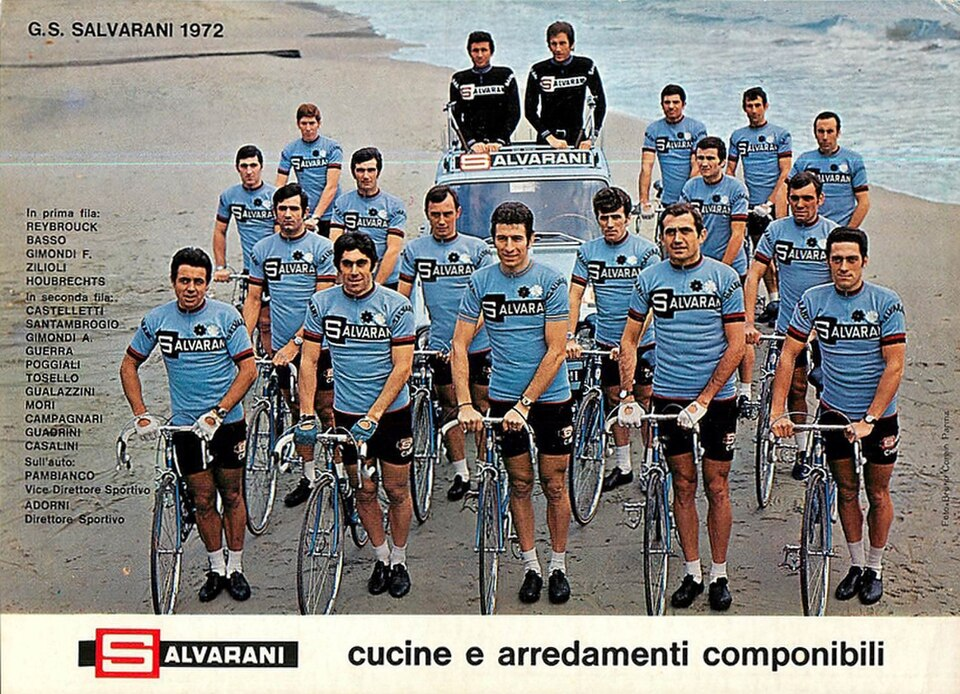
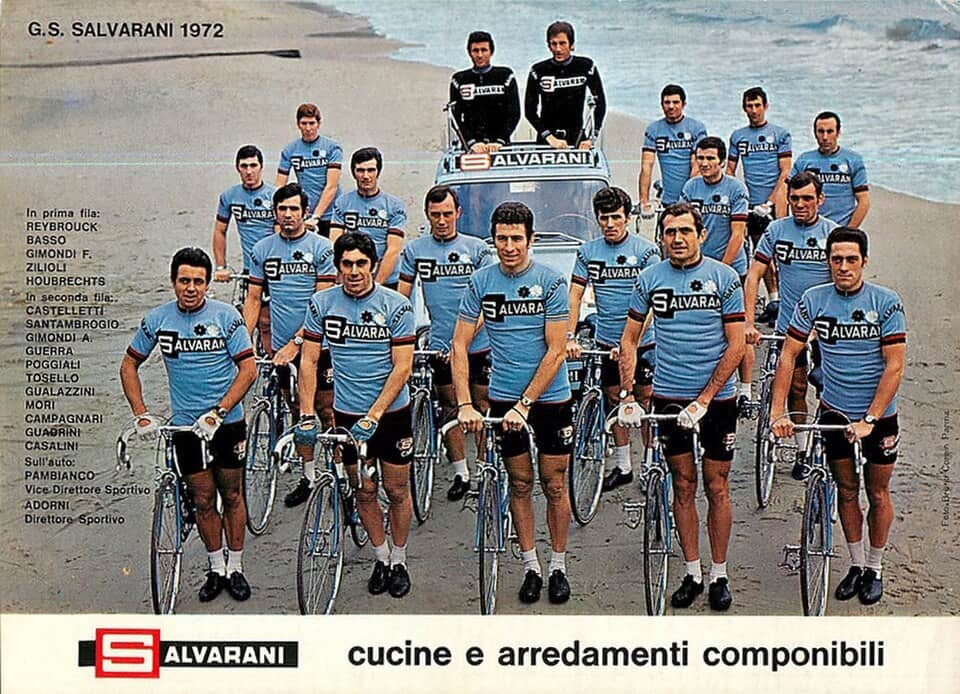
Optimize images and fix W04 audit issues

diff --git a/wwr/index.html b/wwr/index.html
@@ -1,9 +1,11 @@
 <!DOCTYPE html>
 <html lang="en-US">
+
 <head>
     <meta charset="UTF-8">
     <meta name="viewport" content="width=device-width, initial-scale=1.0">
-    <meta name="description" content="Experience exciting white water rafting adventures with expert guides, breathtaking scenery, and unforgettable trips.">
+    <meta name="description"
+      content="Experience exciting white water rafting adventures with expert guides, breathtaking scenery, and unforgettable trips.">
     <meta name="author" content="Ewoh Benjamin Friday">
 
     <title>Home | White Water Rafting</title>
@@ -124,4 +126,5 @@
     </footer>
 
 </body>
+
 </html>

diff --git a/wwr/about.html b/wwr/about.html
@@ -1,9 +1,11 @@
 <!DOCTYPE html>
 <html lang="en-US">
+
 <head>
     <meta charset="UTF-8">
     <meta name="viewport" content="width=device-width, initial-scale=1.0">
-    <meta name="description" content="Learn about White Water Rafting adventures, our history, and exciting river experiences.">
+    <meta name="description"
+      content="Learn about White Water Rafting adventures, our history, and exciting river experiences.">
     <meta name="author" content="Ewoh Benjamin Friday">
 
     <title>About Us | White Water Rafting</title>
@@ -122,4 +124,5 @@
     </footer>
 
 </body>
+
 </html>
